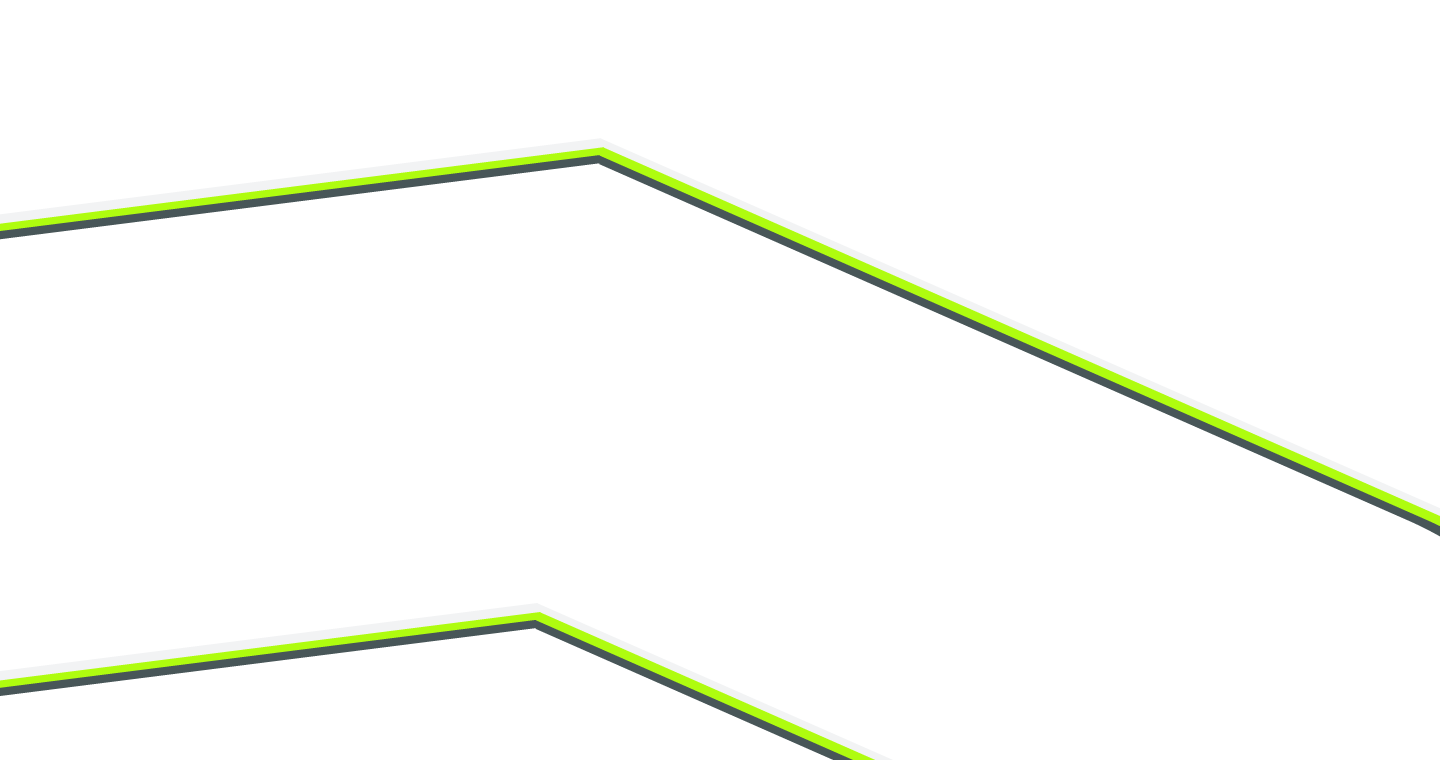
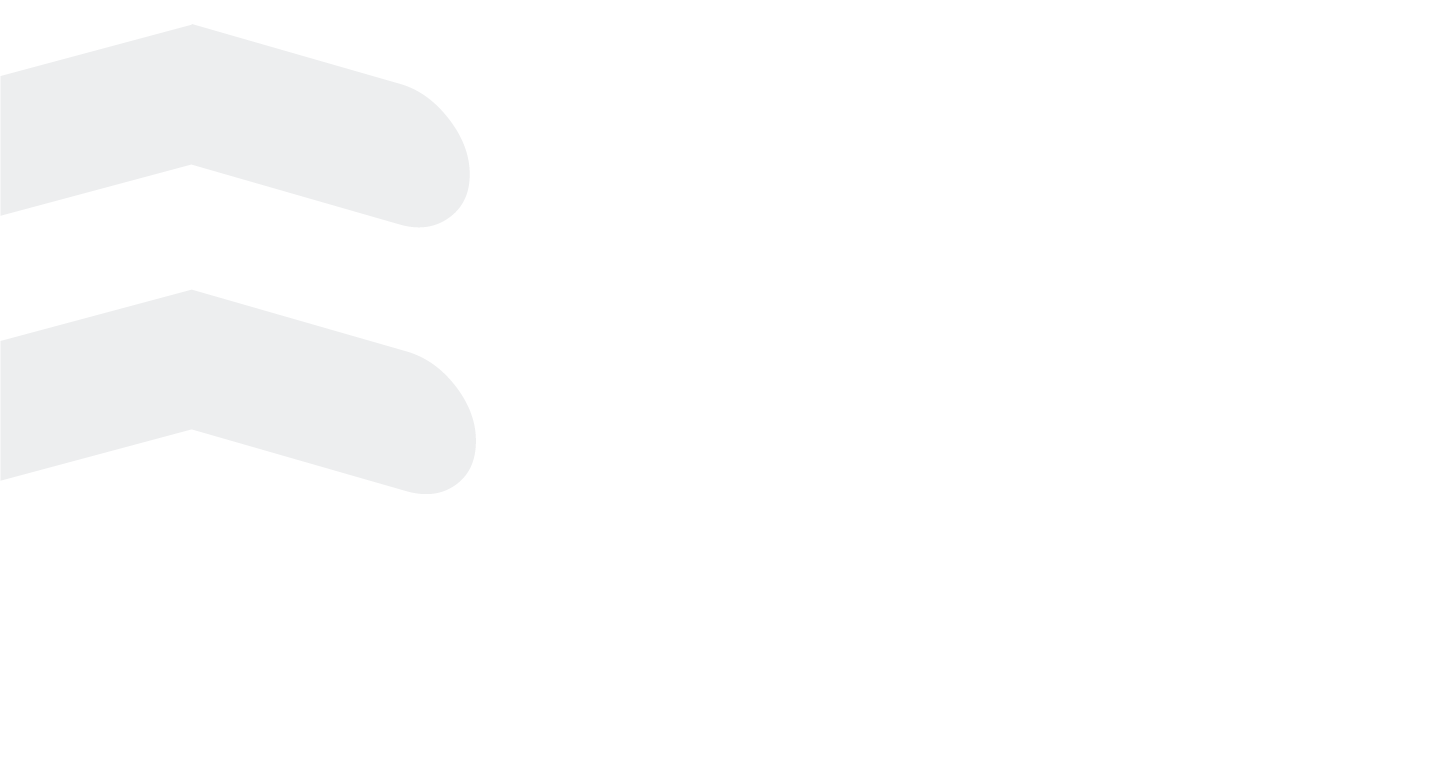
Diseño nuevo login

Changed region(s): [[0.0, 0.1816, 1.0, 0.6961], [0.0, 0.7868, 0.625, 1.0]]

diff --git a/src/app/login/Login.vue b/src/app/login/Login.vue
@@ -1,14 +1,33 @@
-<template>
+<template id="template">
   <div id="login">
     <notifications group="login" />
     <div class="info-container">
-         <img src="/assets/logo.png" width="80" height="80" />
-      <h3>
-        Descubre el poder de la 
+      <img src="/assets/logo.png" width="80" height="80" />
+      <h3 class="h3Descubre">
+        Descubre el poder de la
         <br />información
       </h3>
       <h5>¡Crea tu cuenta gratis!</h5>
       <b-button variant="primary" @click="openRegister">Regístrate</b-button>
+
+      <div class="banner2 d-flex">
+        <div>
+          <img src="/assets/phone.svg" alt="IOS/ANDROID" />
+        </div>
+
+        <div>
+          <h3 class="H3Descarga">Descarga la app</h3>
+
+          <div>
+            <a href="https://apps.apple.com/us/app/id1495606309%26mt%3D8" target="_blank">
+              <img src="/assets/images/app-store-02.svg" width="150" height="50" />
+            </a>
+            <a href="https://play.google.com/store/apps/details?id=com.ienergybook" target="_blank">
+              <img src="/assets/images/Google_play-02.svg " width="150" height="50" />
+            </a>
+          </div>
+        </div>
+      </div>
     </div>
 
     <b-card id="login-container">
@@ -26,40 +45,35 @@
             autocomplete="on"
           ></b-form-input>
         </b-form-group>
-        <b-form-group id="login-password" >
-          <b-input-group >
-          <b-form-input
-          id="password"
-            type="password"
-            v-model="password"
-            required="required"
-            placeholder="Contraseña"
-            autocomplete="on"
-            
-          >   
-          
-          </b-form-input>
+        <b-form-group id="login-password">
+          <b-input-group>
+            <b-form-input
+              id="password"
+              type="password"
+              v-model="password"
+              required="required"
+              placeholder="Contraseña"
+              autocomplete="on"
+            ></b-form-input>
 
             <b-input-group-append>
-      <b-button id="hola"  @click="mostrarContrasena()" variant="link">
-         <img src="/assets/ojo.svg" alt="Mostrar contraseña" width="30" height="20">
-         </b-button>
-
-    </b-input-group-append>
-
-
-            </b-input-group>
-     
-        
+              <b-button id="hola" @click="mostrarContrasena()" variant="link">
+                <img src="/assets/ojo.svg" alt="Mostrar contraseña" width="30" height="20" />
+              </b-button>
+            </b-input-group-append>
+          </b-input-group>
         </b-form-group>
 
         <b-button type="submit" variant="primary">Iniciar Sesión</b-button>
 
         <div>
-          <a href="http://ienergybook.com/Aviso%20de%20privacidad.html" target="_blank">Checa nuestra politica de privacidad</a>
+          <a
+            href="http://ienergybook.com/Aviso%20de%20privacidad.html"
+            target="_blank"
+          >Checa nuestra politica de privacidad</a>
         </div>
-         <div>
-          <a  v-b-modal.modal-1> Olvidó su contraseña?  </a>
+        <div>
+          <a v-b-modal.modal-1>Olvidó su contraseña?</a>
         </div>
         <br />
         <div align="left">
@@ -83,85 +97,20 @@
       </b-form>
     </b-card>
 
+    <b-modal id="modal-1" title="Olvidó su contraseña?  " @ok="handleOk">
+      <b-form-group label="Correo" label-for="name-input" invalid-feedback="Correo es necesario">
+        <b-form-input v-model="checkemail" class="primary" id="name-input" required></b-form-input>
+      </b-form-group>
 
-<div id="banner2"  >
-<h3>Descarga la app</h3>
-   
-   <div class="d-flex justify-content-around" >
-
-       <img src="/assets/tableta.svg" alt="IOS/ANDROID" width="100" height="100">
-       
-
-      <div id="div" class="d-flex justify-content-around"  >
-
-
-
-
-
-             <a href="https://apps.apple.com/us/app/id1495606309%26mt%3D8" target="_blank"><img  src="/assets/images/app-store-02.svg" width="250" height="75" /></a> 
-
-  <a href="https://play.google.com/store/apps/details?id=com.ienergybook" target="_blank"><img  src="/assets/images/Google_play-02.svg " width="250" height="75" /></a> 
-
-      </div>
-
-</div>
-      
-</div>
-
-   
-
-
-
-
-
-
-
-
-  <b-modal id="modal-1" title="Olvidó su contraseña?  " 
-  @ok="handleOk"
-  
-  >
-
-
-   
-        <b-form-group
-   
-          label="Correo"
-          label-for="name-input"
-          invalid-feedback="Correo es necesario"
-        >
-          <b-form-input
-          v-model="checkemail"
-               class="primary"
-            id="name-input"
-            required
-          ></b-form-input>
-
-        </b-form-group>
-
-           
-        <b-form-group
-   
-          label="Nueva contraseña"
-          label-for="name-input"
-          invalid-feedback="Contraseña es necesario"
-        >
-          <b-form-input
-          v-model="newpassword"
-               class="primary"
-            id="name-input"
-            required
-          ></b-form-input>
-          
-        </b-form-group>
-
-  </b-modal>
-
+      <b-form-group
+        label="Nueva contraseña"
+        label-for="name-input"
+        invalid-feedback="Contraseña es necesario"
+      >
+        <b-form-input v-model="newpassword" class="primary" id="name-input" required></b-form-input>
+      </b-form-group>
+    </b-modal>
   </div>
-
-
-
-
 </template>
 
                 <script src="./login"></script>

diff --git a/src/styles/login.scss b/src/styles/login.scss
@@ -16,6 +16,8 @@ input:-webkit-autofill:active  {
 }
 
 
+
+
 @media only screen and (max-width: 1023px) {
     #login-container, #register-container {
         width: 100%;
@@ -29,32 +31,27 @@ input:-webkit-autofill:active  {
         position: fixed;
     }
 
-    #banner2 {
-     div {
-         
-            
-            width: fit-content;
-            align-items: flex-end;
-            height: 100px;
-        
-     }
+    #login .banner2 {
+        width: fit-content;
+        align-items: flex-end;
+        height: 120px;
+        margin-top: 150px;
+        margin-left: 120px;
         text-align: center;
         color: $darkgray;
         width: fit-content;
-
-    h3 {
-        position: relative;
-        
-        font-weight: 600;
-        letter-spacing: 1px;
-    
     }
 
-
-        
-        position: absolute;
-        right: 52%;
-        top: 65%;
+    #login .H3Descarga{
+        margin-top: 150px;
+        font-weight: bold;
+        font-size: 1.5rem;
+        color: black;
+        letter-spacing: 1.5px;
+        text-align: left;
+    }
+    #template {
+        background-color: white;
     }
 
     #hola {
@@ -82,19 +79,22 @@ input:-webkit-autofill:active  {
 
     #login .info-container {
         display: inline-block;
-        position: absolute;
-        top: 30%;
-        left: 10%;
+        margin-left: 100px;
+        margin-top: 100px;
+        margin-bottom: 20px;
     }
 
 }
 
-#login,
-#register {
+
+#template,#login,#register {
+
     background-image: url("/assets/login_background.png");
-    background-attachment: fixed;
-    background-repeat: no-repeat;
+    background-color: white;
     background-size: cover;
+    background-attachment: fixed;
+    background-repeat: repeat-y;/* Do not repeat the image */
+    background-size: cover; /* Resize the background image to cover the entire container */
     height: 100vh;
 }
 
@@ -168,18 +168,26 @@ input:-webkit-autofill:active  {
     text-decoration: none;
 }
 
+#login .h3Descubre {
+    font-weight: 600;
+    letter-spacing: 1px;
+    margin-bottom: 8rem;
+    color: black;
+
+}
+
+
 #login .info-container {
     
     color: $darkgray;
 
-    h3 {
-        font-weight: 600;
-        letter-spacing: 1px;
-        margin-bottom: 2rem;
-    }
+
 
     h5 {
         margin-bottom: 1rem;
+        font-weight: bold;
+        color: $darkgray;
+        font-size: 1.5rem;
     }
 }
 
